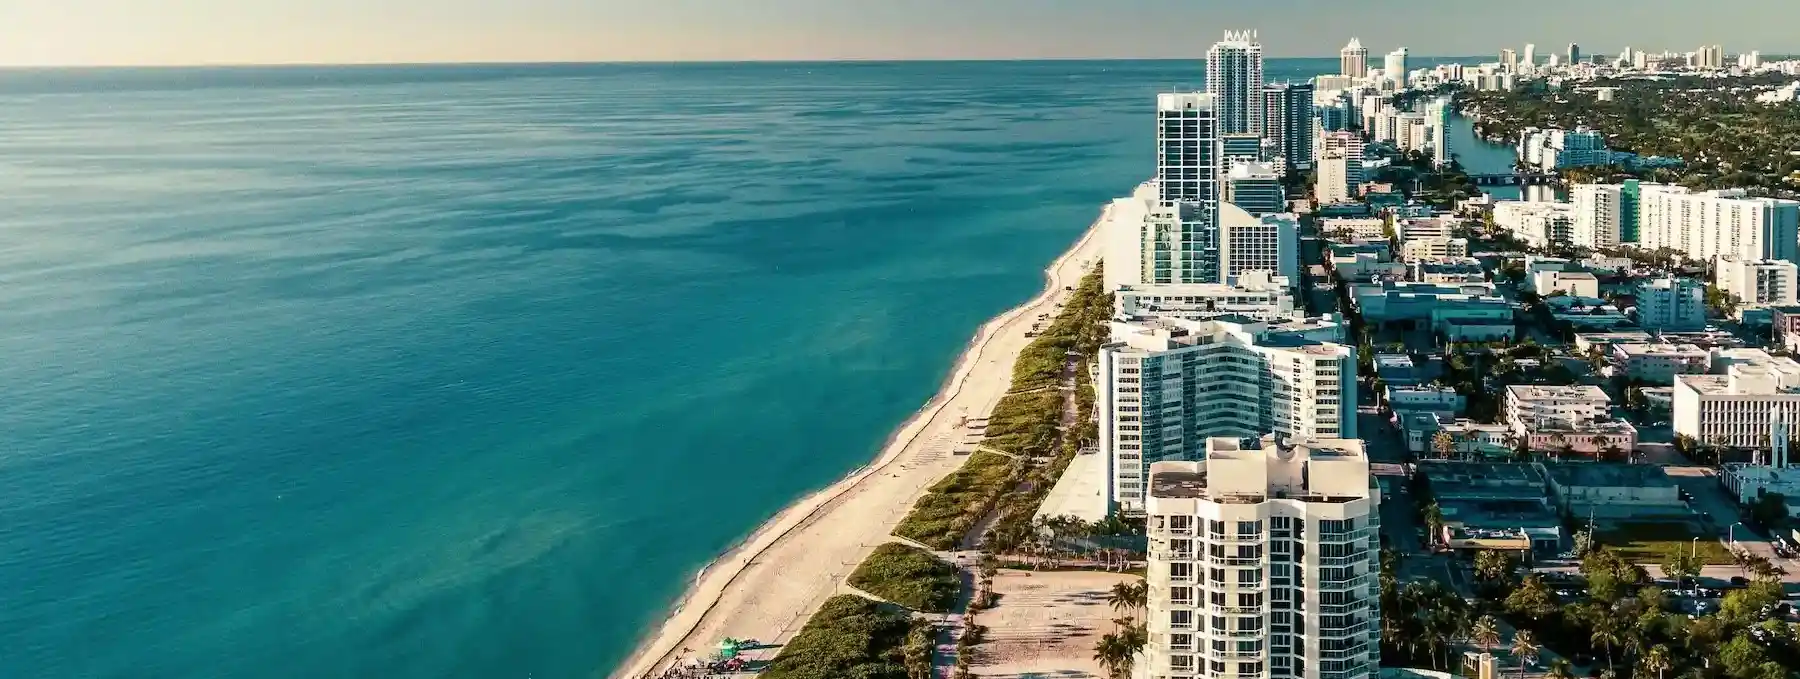
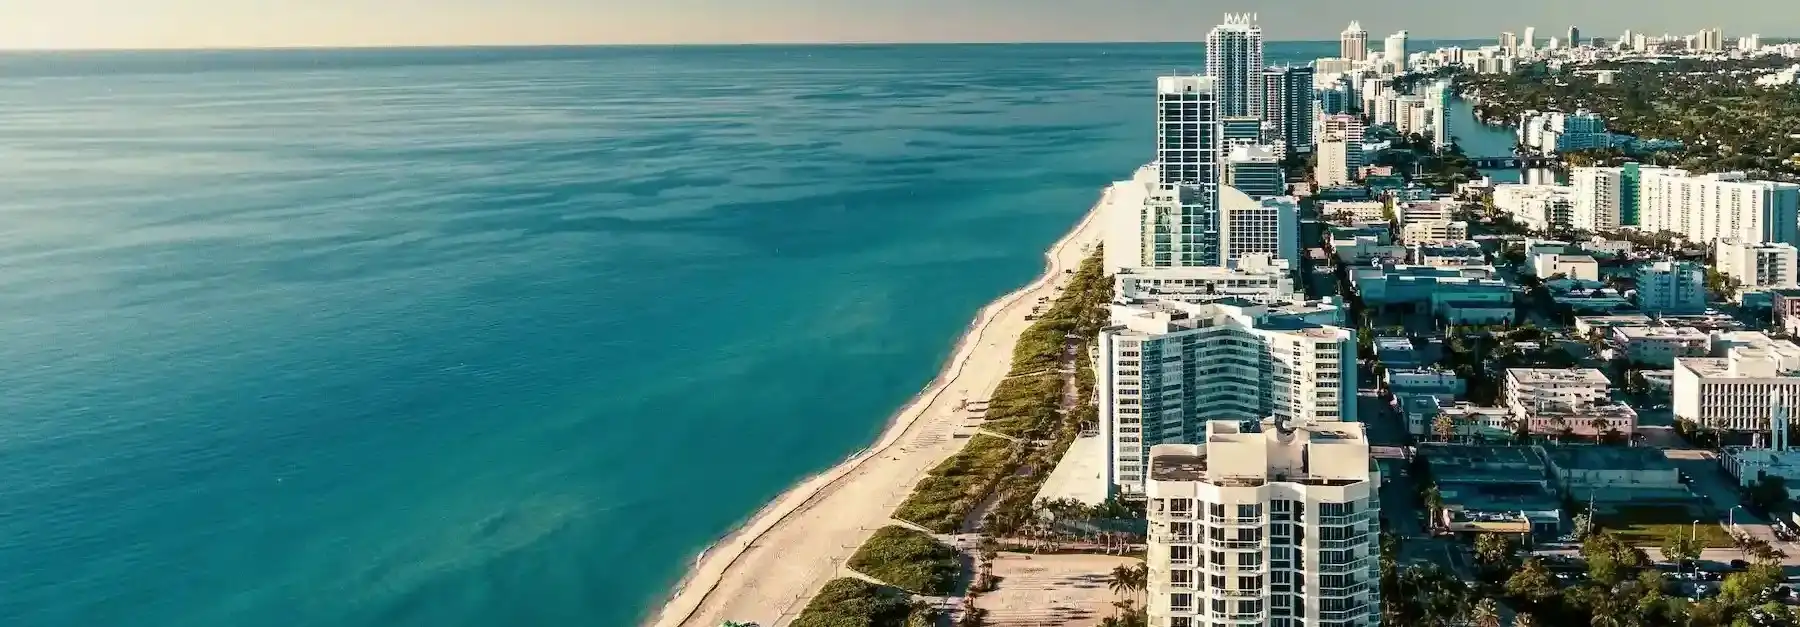
lets gooo

diff --git a/styles/places.css b/styles/places.css
@@ -20,7 +20,7 @@ header{
     background:var(--red);
     color:white;
     text-align:center;
-    padding:25px;
+    padding:20px;
     border-bottom:12px solid var(--green);
 }
 
@@ -85,9 +85,9 @@ picture img{
 }
 
 .mobile-icon{
-    display:none;
-    width:40px;
-    margin-bottom:10px;
+    display: block;
+    width: 70px;
+    margin: 20px auto;
 }
 
 footer{
@@ -98,39 +98,29 @@ footer{
 
     text-align:center;
 
-    padding:30px;
+    padding:20px;
 
 }
 
 @media (max-width:800px){
 
-main{
+    main{
+        display:flex;
+        flex-direction:column;
+    }
 
-display:flex;
+    .data,
+    .weather{
+        position:static;
+        margin:20px;
+    }
 
-flex-direction:column;
+    .weather h2::after{
+        content:"";
+    }
 
-}
-
-.data,
-.weather{
-
-position:static;
-
-margin:20px;
-
-}
-
-.weather h2::after{
-
-content:"";
-
-}
-
-.mobile-icon{
-
-display:block;
-
-}
+    .mobile-icon{
+        display:block;
+    }
 
 }

diff --git a/places.html b/places.html
@@ -11,7 +11,7 @@
 
     <link rel="stylesheet" href="styles/places.css">
 
-    <script src="script/places.js" defer></script>
+    <script src="scripts/places.js" defer></script>
 </head>
 
 <body>
@@ -64,16 +64,13 @@
 
 <footer>
 
-<p>
-&copy;
-<span id="year"></span>
-🌴 Rebecca Vicente 🌴 Miami
-</p>
+    <p>
+        &copy;
+        <span id="currentyear"></span>
+        🌴 Rebecca Vicente 🌴 Miami
+    </p>
 
-<p>
-Last Modification:
-<span id="lastModified"></span>
-</p>
+    <p id="lastModified"></p>
 
 </footer>
 

diff --git a/scripts/places.js b/scripts/places.js
@@ -1,3 +1,14 @@
+console.log("JavaScript is working!");
+
+// Footer copyright year
+document.getElementById("currentyear").textContent =
+new Date().getFullYear();
+
+
+// Footer last modified date
+document.getElementById("lastModified").textContent =
+`Last Modification: ${document.lastModified}`;
+
 const temperature = 30;
 const windSpeed = 12;
 
@@ -18,6 +29,3 @@ if (temperature <= 10 && windSpeed > 4.8) {
     windChill.textContent = "N/A";
 }
 
-document.getElementById("year").textContent = new Date().getFullYear();
-
-document.getElementById("lastModified").textContent = document.lastModified;